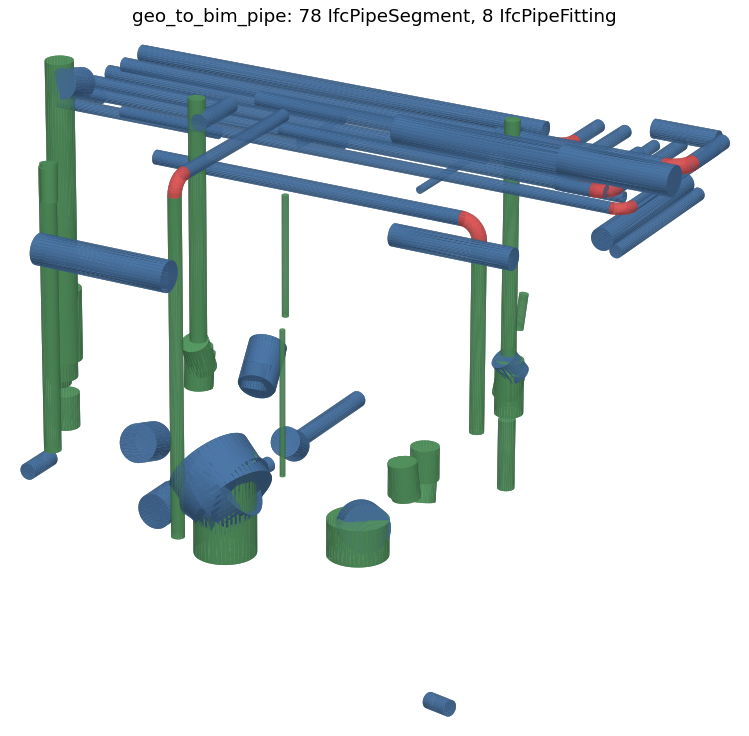
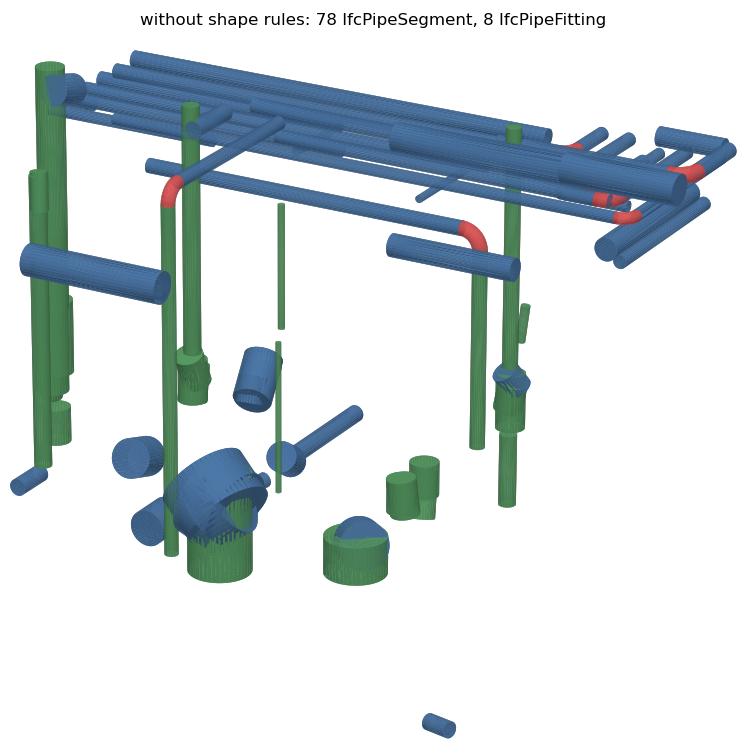
doc: same size images for the shape rule comparison

diff --git a/doc/pipe.md b/doc/pipe.md
@@ -151,7 +151,7 @@ cylinder_to_pipe_log.json
 `elevation` is the angle of the axis from the level plane and `azimuth` its plan direction from the grid, both in degrees. The points of each rejected cylinder are in the `file` next to the log; those of a dropped pipe are in the `_@<n>.pcd` files of its `cylinders`. The reasons are `direction` (pcd_to_cylinder), `elbow_piece`, `short` (below `min_pipe_length`) and `length_ratio` (cylinder_to_pipe). A surface found again from other seeds is listed once.
 
 <p align="center">
-<img width="397" src="./pipe_ifc_no_rules.png"/><img width="323" src="./pipe_ifc.png"/>
+<img width="360" src="./pipe_ifc_no_rules.png"/><img width="360" src="./pipe_ifc_rules.png"/>
 </p>
 
 Without rules (left) and with them (right).
